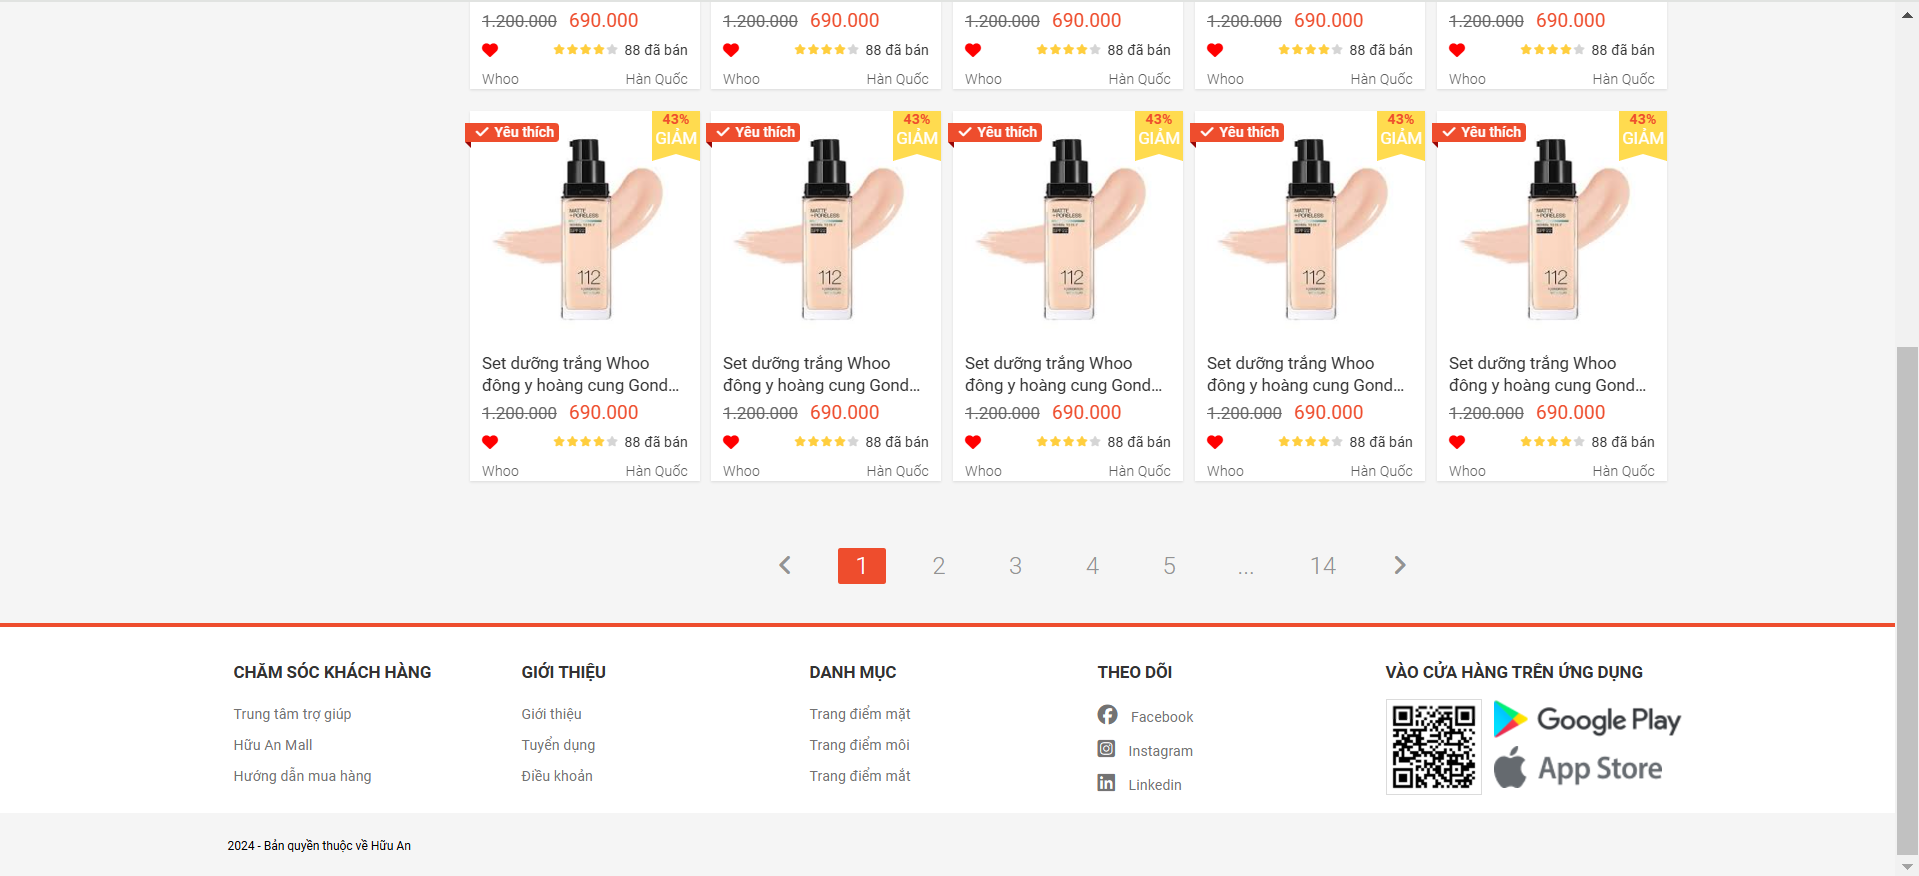
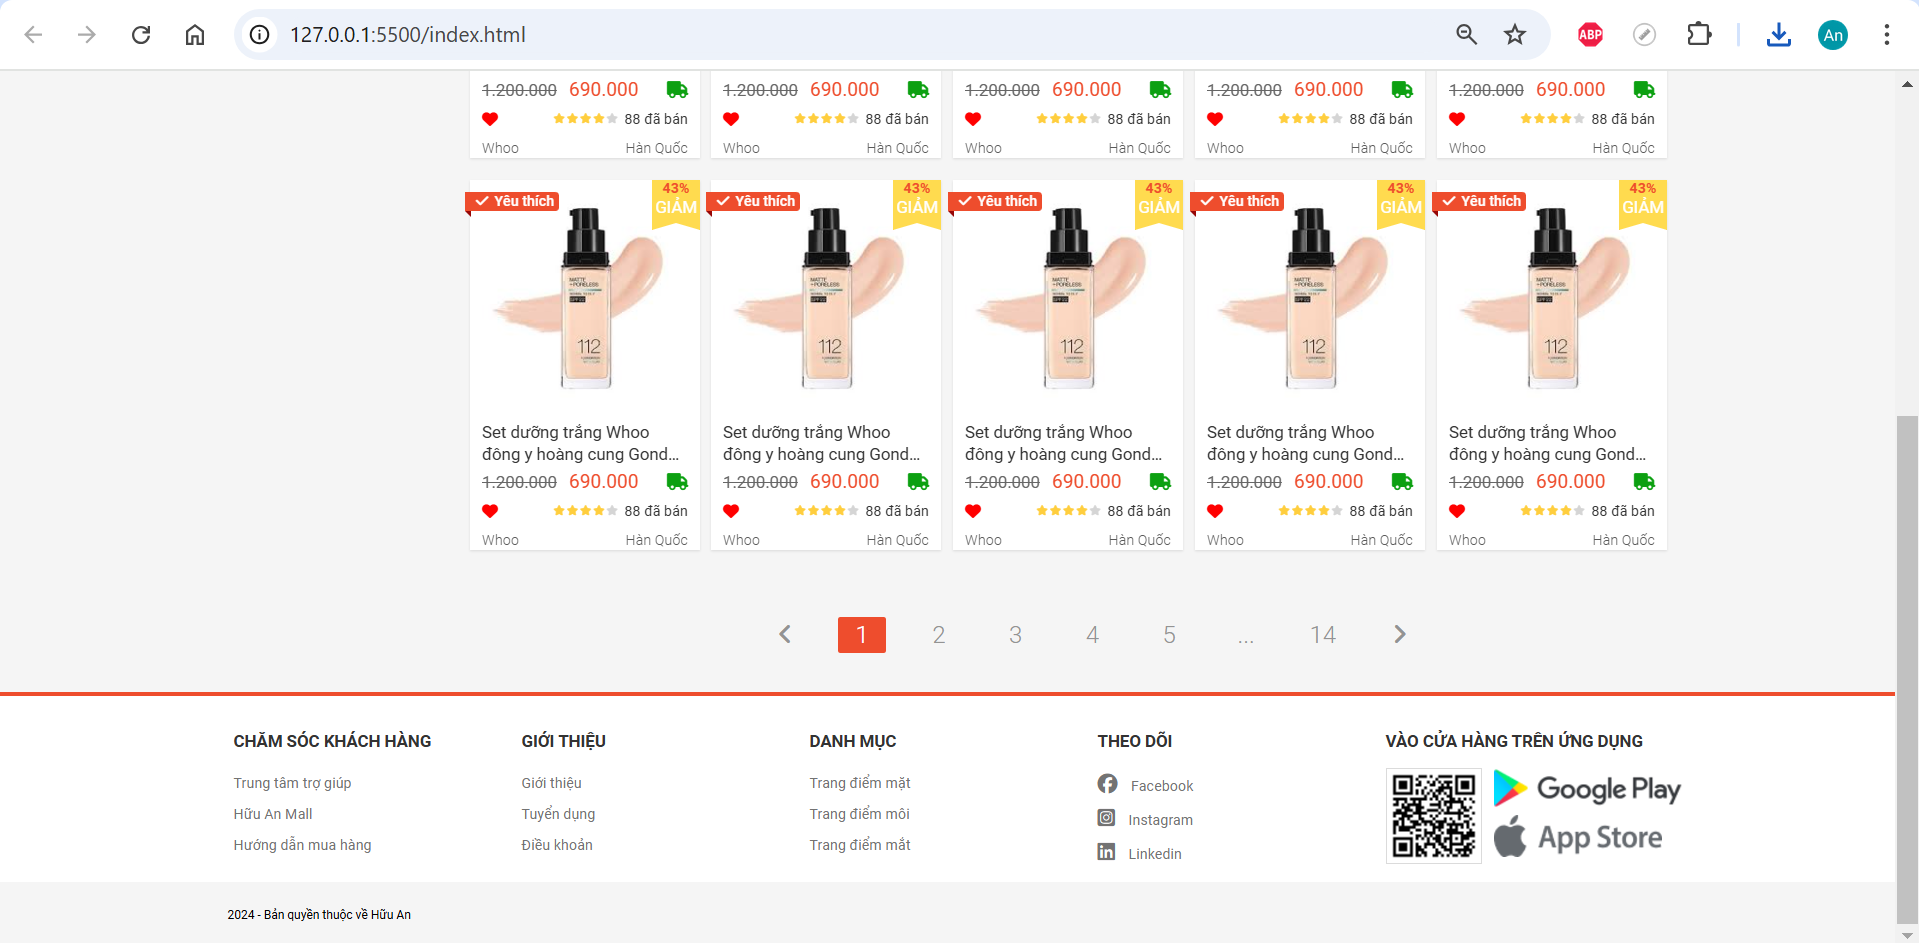
Sửa lỗi z-index noti và thêm delivery

diff --git a/index.html b/index.html
@@ -428,6 +428,9 @@
                                             <div class="home-product-item__price">
                                                 <span class="home-product-item__price-old">1.200.000</span>
                                                 <span class="home-product-item__price-current">690.000</span>
+                                                <span class="home-product-item__price-delivery">
+                                                    <i class="fa-solid fa-truck"></i>
+                                                </span>
                                             </div>
                                             <div class="home-product-item__action">
                                                 <span class="home-product-item__like home-product-item__like-liked">
@@ -464,6 +467,9 @@
                                             <div class="home-product-item__price">
                                                 <span class="home-product-item__price-old">1.200.000</span>
                                                 <span class="home-product-item__price-current">690.000</span>
+                                                <span class="home-product-item__price-delivery">
+                                                    <i class="fa-solid fa-truck"></i>
+                                                </span>
                                             </div>
                                             <div class="home-product-item__action">
                                                 <span class="home-product-item__like home-product-item__like-liked">
@@ -500,6 +506,9 @@
                                             <div class="home-product-item__price">
                                                 <span class="home-product-item__price-old">1.200.000</span>
                                                 <span class="home-product-item__price-current">690.000</span>
+                                                <span class="home-product-item__price-delivery">
+                                                    <i class="fa-solid fa-truck"></i>
+                                                </span>
                                             </div>
                                             <div class="home-product-item__action">
                                                 <span class="home-product-item__like home-product-item__like-liked">
@@ -536,6 +545,9 @@
                                             <div class="home-product-item__price">
                                                 <span class="home-product-item__price-old">1.200.000</span>
                                                 <span class="home-product-item__price-current">690.000</span>
+                                                <span class="home-product-item__price-delivery">
+                                                    <i class="fa-solid fa-truck"></i>
+                                                </span>
                                             </div>
                                             <div class="home-product-item__action">
                                                 <span class="home-product-item__like home-product-item__like-liked">
@@ -572,6 +584,9 @@
                                             <div class="home-product-item__price">
                                                 <span class="home-product-item__price-old">1.200.000</span>
                                                 <span class="home-product-item__price-current">690.000</span>
+                                                <span class="home-product-item__price-delivery">
+                                                    <i class="fa-solid fa-truck"></i>
+                                                </span>
                                             </div>
                                             <div class="home-product-item__action">
                                                 <span class="home-product-item__like home-product-item__like-liked">
@@ -608,6 +623,9 @@
                                             <div class="home-product-item__price">
                                                 <span class="home-product-item__price-old">1.200.000</span>
                                                 <span class="home-product-item__price-current">690.000</span>
+                                                <span class="home-product-item__price-delivery">
+                                                    <i class="fa-solid fa-truck"></i>
+                                                </span>
                                             </div>
                                             <div class="home-product-item__action">
                                                 <span class="home-product-item__like home-product-item__like-liked">
@@ -644,6 +662,9 @@
                                             <div class="home-product-item__price">
                                                 <span class="home-product-item__price-old">1.200.000</span>
                                                 <span class="home-product-item__price-current">690.000</span>
+                                                <span class="home-product-item__price-delivery">
+                                                    <i class="fa-solid fa-truck"></i>
+                                                </span>
                                             </div>
                                             <div class="home-product-item__action">
                                                 <span class="home-product-item__like home-product-item__like-liked">
@@ -680,6 +701,9 @@
                                             <div class="home-product-item__price">
                                                 <span class="home-product-item__price-old">1.200.000</span>
                                                 <span class="home-product-item__price-current">690.000</span>
+                                                <span class="home-product-item__price-delivery">
+                                                    <i class="fa-solid fa-truck"></i>
+                                                </span>
                                             </div>
                                             <div class="home-product-item__action">
                                                 <span class="home-product-item__like home-product-item__like-liked">
@@ -716,6 +740,9 @@
                                             <div class="home-product-item__price">
                                                 <span class="home-product-item__price-old">1.200.000</span>
                                                 <span class="home-product-item__price-current">690.000</span>
+                                                <span class="home-product-item__price-delivery">
+                                                    <i class="fa-solid fa-truck"></i>
+                                                </span>
                                             </div>
                                             <div class="home-product-item__action">
                                                 <span class="home-product-item__like home-product-item__like-liked">
@@ -752,6 +779,9 @@
                                             <div class="home-product-item__price">
                                                 <span class="home-product-item__price-old">1.200.000</span>
                                                 <span class="home-product-item__price-current">690.000</span>
+                                                <span class="home-product-item__price-delivery">
+                                                    <i class="fa-solid fa-truck"></i>
+                                                </span>
                                             </div>
                                             <div class="home-product-item__action">
                                                 <span class="home-product-item__like home-product-item__like-liked">

diff --git a/assets/css/main.css b/assets/css/main.css
@@ -148,7 +148,7 @@
     -o-animation: headerNotifyGrowth ease-in 0.2s; */
     will-change: opacity, transform;
     display: none;
-    z-index: 1;
+    z-index: 2;
 }
 
 .header__notify::before{
@@ -976,6 +976,13 @@
     font-size: 1.6rem;
     color: var(--primary-color);
     margin-left: 10px;
+}
+
+.home-product-item__price-delivery{
+    font-size: 1.4rem;
+    color: rgb(12, 160, 17);
+    margin-left: auto;
+    margin-right: 10px;
 }
 
 .home-product-item__action{
